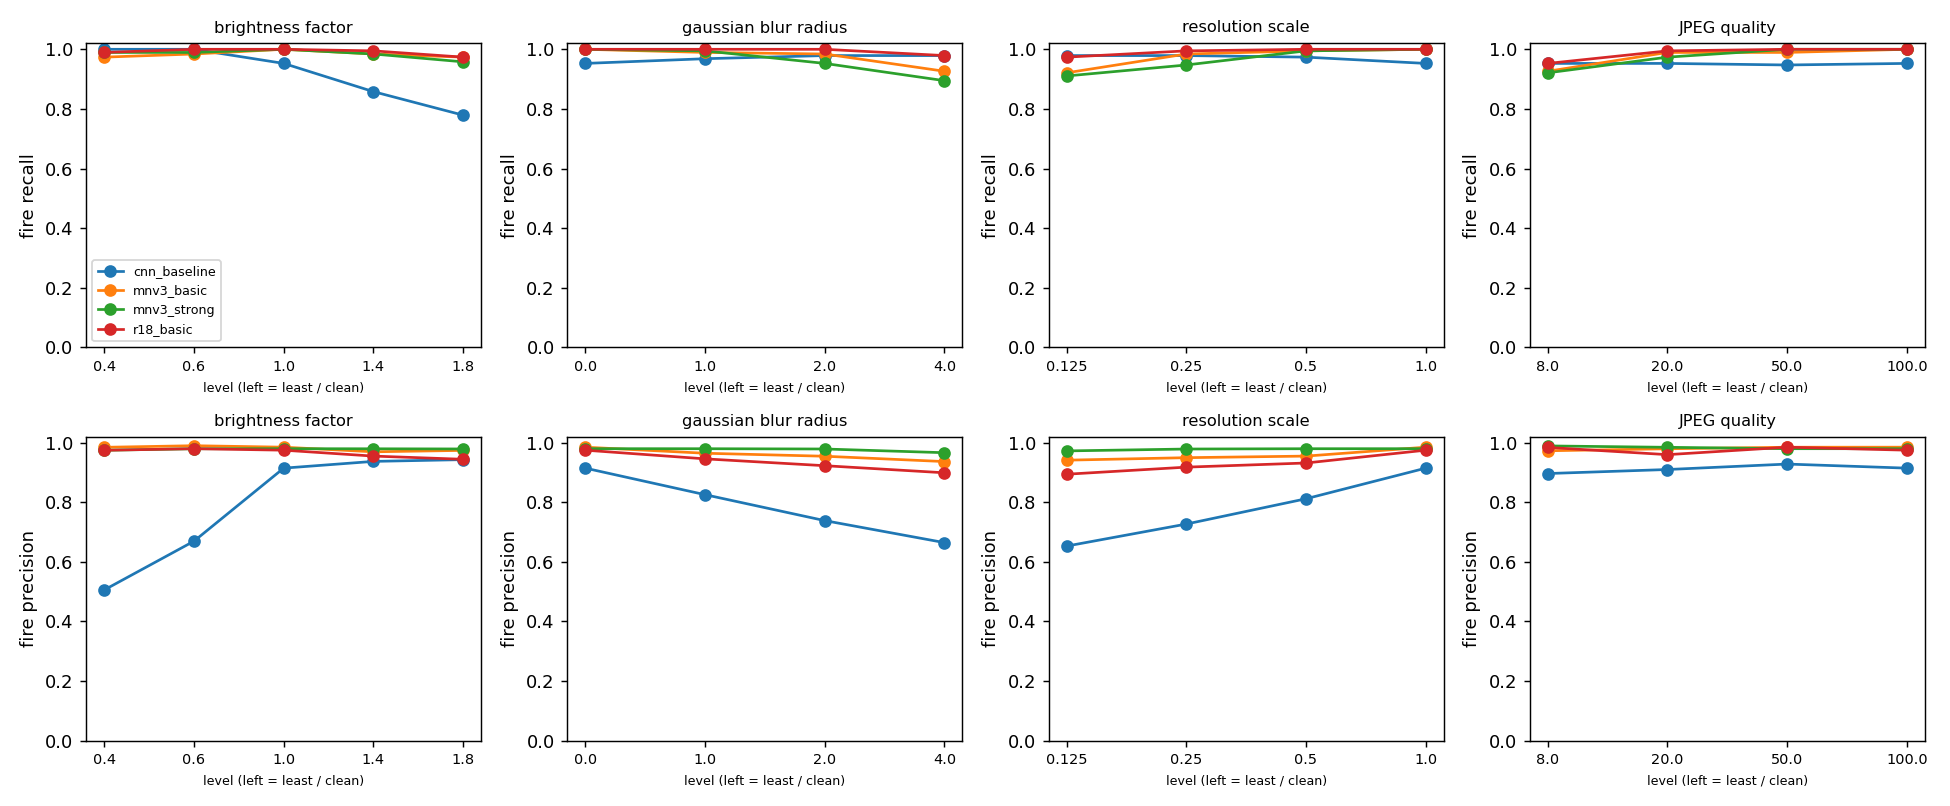
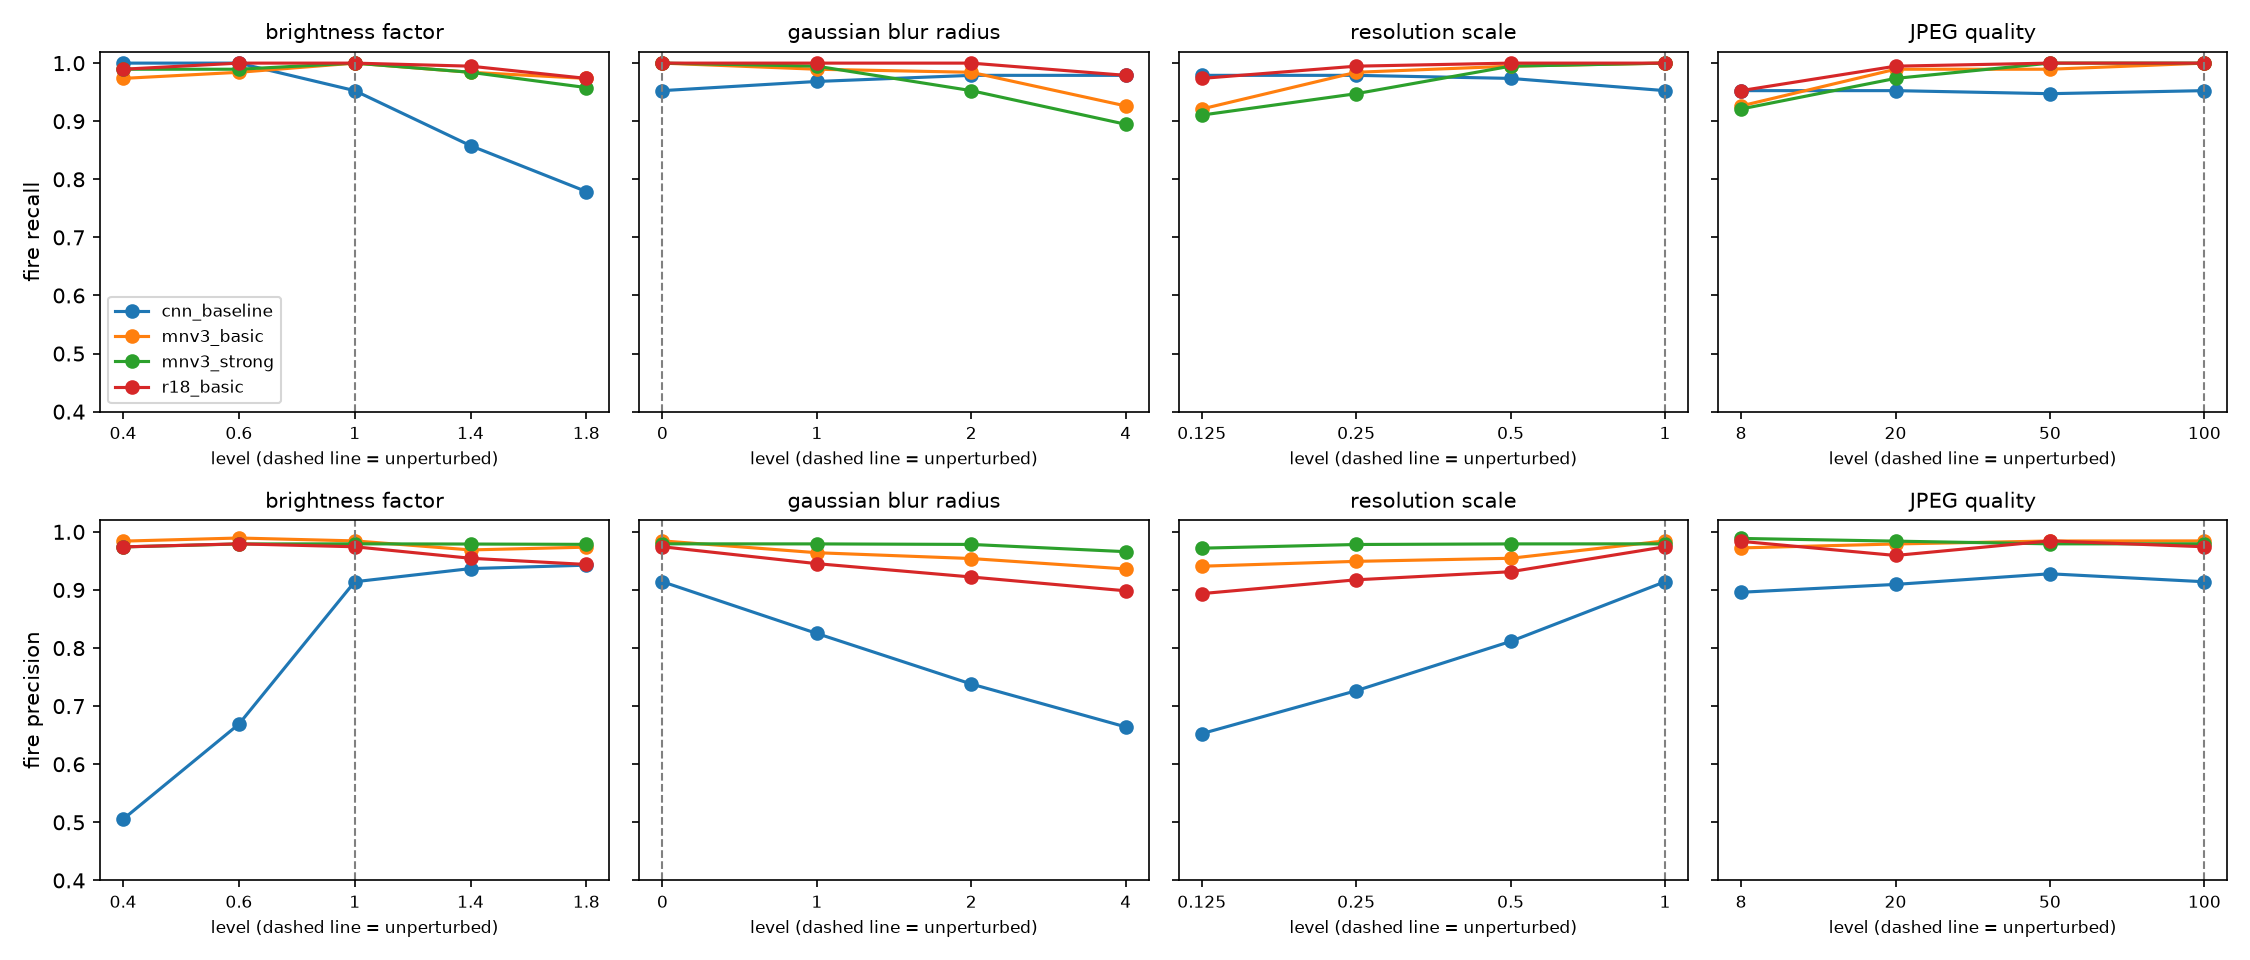
Fix robustness figure axes

diff --git a/plot_robustness.py b/plot_robustness.py
@@ -1,0 +1,56 @@
+"""
+plot_robustness.py - redraw results/figures/robustness.png from results/robustness.csv.
+Reads saved numbers only; does not load any model or image.
+
+    python plot_robustness.py
+"""
+import argparse
+from pathlib import Path
+
+import numpy as np
+import pandas as pd
+import matplotlib
+matplotlib.use("Agg")
+import matplotlib.pyplot as plt
+
+CLEAN = {"brightness factor": 1.0, "gaussian blur radius": 0.0,
+         "resolution scale": 1.0, "JPEG quality": 100.0}
+ORDER = ["brightness factor", "gaussian blur radius", "resolution scale", "JPEG quality"]
+
+
+def main():
+    ap = argparse.ArgumentParser()
+    ap.add_argument("--csv", default="results/robustness.csv")
+    ap.add_argument("--out", default="results/figures/robustness.png")
+    args = ap.parse_args()
+
+    df = pd.read_csv(args.csv)
+    models = list(dict.fromkeys(df["model"]))
+    fig, axes = plt.subplots(2, 4, figsize=(15, 6.4), sharey="row")
+    for j, fam in enumerate(ORDER):
+        sub = df[df.perturbation == fam]
+        levels = sorted(sub["level"].unique())
+        pos = {lv: i for i, lv in enumerate(levels)}
+        for i, (metric, lab) in enumerate((("fire_recall", "fire recall"),
+                                           ("fire_precision", "fire precision"))):
+            ax = axes[i, j]
+            for m in models:
+                s = sub[sub.model == m].sort_values("level")
+                ax.plot([pos[v] for v in s["level"]], s[metric], marker="o", label=m)
+            ax.axvline(pos[CLEAN[fam]], ls="--", c="gray", lw=1)
+            ax.set_xticks(range(len(levels)))
+            ax.set_xticklabels([f"{v:g}" for v in levels], fontsize=8)
+            ax.set_ylim(0.4, 1.02)
+            ax.set_title(fam, fontsize=10)
+            if j == 0:
+                ax.set_ylabel(lab)
+            ax.set_xlabel("level (dashed line = unperturbed)", fontsize=8)
+    axes[0, 0].legend(fontsize=8, loc="lower left")
+    fig.tight_layout()
+    Path(args.out).parent.mkdir(parents=True, exist_ok=True)
+    fig.savefig(args.out, dpi=150)
+    print("saved", args.out)
+
+
+if __name__ == "__main__":
+    main()
